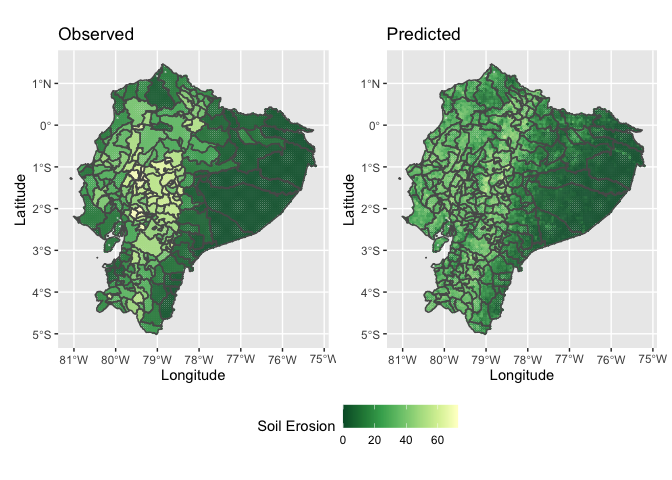
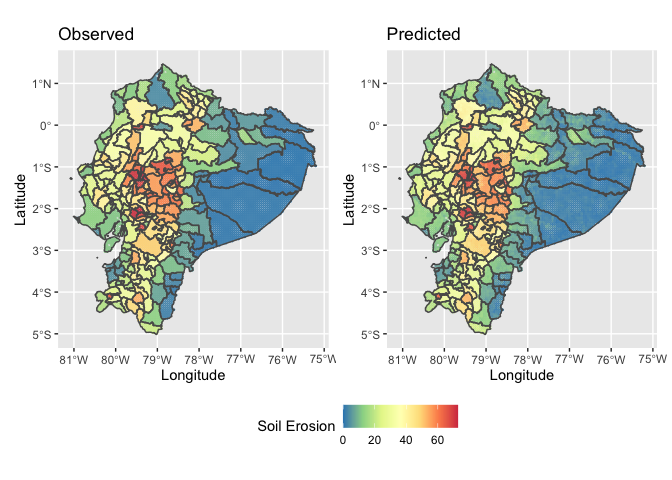
add rendered doc to mach modified rmd

Changed region(s): [[0.0938, 0.125, 0.4688, 0.6875], [0.5938, 0.125, 0.9688, 0.6875], [0.5, 0.8438, 0.6875, 0.9062]]

diff --git a/polygon/shp_label_predictions.md b/polygon/shp_label_predictions.md
@@ -49,7 +49,7 @@ label_shp <- st_read(paste0(input_dir, label_shp_name)) # read in shapefile usin
 ```
 
     ## Reading layer `ecu_ica_landdegradation_geonode_jul2018' from data source 
-    ##   `/Users/benshen/CEGA/api_testing/ecu_soil_erosion_data/ecu_ica_landdegradation_geonode_jul2018.shp' 
+    ##   `/Users/benshen/CEGA/api_testing/polygon/ecu_soil_erosion_data/ecu_ica_landdegradation_geonode_jul2018.shp' 
     ##   using driver `ESRI Shapefile'
     ## Simple feature collection with 224 features and 9 fields
     ## Geometry type: MULTIPOLYGON
@@ -130,7 +130,9 @@ grid cell centroid.
 ``` r
 grid_sf <- st_as_sf(grid) # transform grid from sfc object to sf object for merging
 
-label_df<- st_join(grid_sf, label_shp_reprojected[,"ErosPr"], join = st_within, left = FALSE) # spatial join grid over shapefile, "ErosPr" is the desired attribute column of the example dataset
+#label_df<- st_join(grid_sf, label_shp_reprojected[,"ErosPr"], join = st_within, left = FALSE) # spatial join grid over shapefile, "ErosPr" is the desired attribute column of the example dataset
+
+label_df <- st_join(grid_sf, label_shp_reprojected[,c("ErosPr","DPA_CANTON")], join = st_within, left = FALSE) # spatial join grid over shapefile, "ErosPr" is the desired attribute column of the example dataset
 ```
 
 Plot check
@@ -138,6 +140,10 @@ Plot check
 <img src="shp_label_predictions_files/figure-gfm/unnamed-chunk-7-1.png" width="100%" height="100%" />
 
 ## 4. Output the grid to CSV to obtain features from File Query
+
+    ## Writing layer `ecu_erosion_label' to data source 
+    ##   `./ecu_erosion_label.csv' using driver `CSV'
+    ## Writing 8074 features with 4 fields and geometry type Point.
 
 # Query MOSAIKS Features from API
 
@@ -192,12 +198,12 @@ label <- label[with(label, order(lat, lon)),] #sort
 head(label, 5)
 ```
 
-    ##    ErosPr     lon    lat
-    ## 1 21.4603 -79.105 -4.975
-    ## 2 21.4603 -79.055 -4.975
-    ## 3 21.4603 -79.005 -4.975
-    ## 4 21.4603 -79.255 -4.925
-    ## 5 21.4603 -79.205 -4.925
+    ##    ErosPr DPA_CANTON     lon    lat
+    ## 1 21.4603       1902 -79.105 -4.975
+    ## 2 21.4603       1902 -79.055 -4.975
+    ## 3 21.4603       1902 -79.005 -4.975
+    ## 4 21.4603       1902 -79.255 -4.925
+    ## 5 21.4603       1902 -79.205 -4.925
 
 Merge features spatially with label.
 
@@ -227,21 +233,21 @@ print(paste0(num_na, " rows with NAs dropped. ", nrow(df), " observations in fin
     ## [1] "28 rows with NAs dropped. 8046 observations in final dataframe."
 
 ``` r
-head(df, c(5, 10)) # limited to 10 columns for sake of space. Actual dataframe contains 4003 columns
+head(df, c(5, 10)) # limited to 10 columns for sake of space
 ```
 
-    ##    ErosPr     lon    lat          X        X.1        X.2          X.3
-    ## 1 21.4603 -79.105 -4.975 0.16587991 0.42999491 0.13084383 0.0547036342
-    ## 2 21.4603 -79.055 -4.975 0.13666266 0.25447765 0.13536981 0.0285860952
-    ## 3 21.4603 -79.005 -4.975 0.10358148 0.17465281 0.11631227 0.0156488381
-    ## 4 21.4603 -79.255 -4.925 0.04870118 0.08788871 0.05642445 0.0027059496
-    ## 5 21.4603 -79.205 -4.925 0.05220752 0.08975811 0.04581843 0.0007529163
-    ##          X.4       X.5        X.6
-    ## 1 0.24663417 0.5299929 0.20095651
-    ## 2 0.15804757 0.3605235 0.18017522
-    ## 3 0.10863219 0.2195943 0.12967739
-    ## 4 0.04756720 0.1608833 0.08749487
-    ## 5 0.05369745 0.1631556 0.06835839
+    ##    ErosPr DPA_CANTON     lon    lat          X        X.1        X.2
+    ## 1 21.4603       1902 -79.105 -4.975 0.16587991 0.42999491 0.13084383
+    ## 2 21.4603       1902 -79.055 -4.975 0.13666266 0.25447765 0.13536981
+    ## 3 21.4603       1902 -79.005 -4.975 0.10358148 0.17465281 0.11631227
+    ## 4 21.4603       1902 -79.255 -4.925 0.04870118 0.08788871 0.05642445
+    ## 5 21.4603       1902 -79.205 -4.925 0.05220752 0.08975811 0.04581843
+    ##            X.3        X.4       X.5
+    ## 1 0.0547036342 0.24663417 0.5299929
+    ## 2 0.0285860952 0.15804757 0.3605235
+    ## 3 0.0156488381 0.10863219 0.2195943
+    ## 4 0.0027059496 0.04756720 0.1608833
+    ## 5 0.0007529163 0.05369745 0.1631556
 
 ## 6. Run a ridge regression of label on MOSAIKS features
 
@@ -254,6 +260,10 @@ then evaluate predictions in the test set. This separation of train and
 test set is important to address issues related to overfitting.
 
 ``` r
+#create dummy variables for fixed effects
+fe <- as.data.frame(model.matrix(~ df$DPA_CANTON - 1))
+df <- cbind(df,fe)
+
 ### Split data into training and test sets
 set.seed(100) 
 
@@ -262,20 +272,20 @@ index <- sample(1:nrow(df), 0.8*nrow(df))
 train <- df[index,] # Create the training data 
 test <- df[-index,] # Create the test data
 
-label_value <- "ErosPr" # set label attribute name in the dataframe, modify according to dataset
+#save test set lat/lons for plotting later
+plotting_coords <- subset(test, select = c(lon,lat))
+plotting_coords_train <- subset(train, select = c(lon,lat))
 
 # Create X matricies and y vectors from the train and test sets
 # Note that the glmnet function does not work with dataframes. Instead, they need to be converted to  numeric matrices  
 
-X_train <- as.matrix(subset(train, select = -c(get(label_value))))
+label_value <- "ErosPr" # set label attribute name in the dataframe, modify according to dataset
+
+X_train <- as.matrix(subset(train, select = -c(get(label_value),lat,lon,DPA_CANTON)))
 y_train <- train[,label_value]
 
-X_test <- as.matrix(subset(test, select = -c(get(label_value))))
+X_test <- as.matrix(subset(test, select = -c(get(label_value),lat,lon,DPA_CANTON)))
 y_test <- test[,label_value]
-
-#save test set lat/lons for plotting later
-plotting_coords <- subset(test, select = c(lon,lat))
-plotting_coords_train <- subset(train, select = c(lon,lat))
 ```
 
 Within our training dataset, we choose the penalization parameter
@@ -293,7 +303,7 @@ optimal_lambda <- cv_ridge$lambda.min
 print(paste0("optimal lambda: ", optimal_lambda))
 ```
 
-    ## [1] "optimal lambda: 1.11246413414451"
+    ## [1] "optimal lambda: 1.0616120957888"
 
 ## 7. Make predictions and evaluate performance
 
@@ -316,7 +326,7 @@ r2 <- (1 - SSE / SST)
 print(paste0('r2: ', r2))
 ```
 
-    ## [1] "r2: 0.566133081589242"
+    ## [1] "r2: 0.992821447155556"
 
 We can also make a scatter plot of labeled data against predictions.
 
@@ -341,26 +351,41 @@ Finally, we can compare the spatial distribution of label
 (i.e. observed) values with predicted values.
 
 <img src="shp_label_predictions_files/figure-gfm/unnamed-chunk-17-1.png" width="100%" height="100%" />
-Example application: One could predict soil erosion risk at higher
-spatial resolution. For example, areas along the Napo River in east
+Example application:  
+When predicting at a higher spatial resolution, you could recover local
+topographic effects. For example, areas along the Napo River in east
 Ecuador face a higher risk of soil erosion.
 
 ``` r
 #load water areas in ecuador 
 water_shp <- st_read(paste0(input_dir, 'ECU_wat/ECU_water_areas_dcw.shp')) # read in shapefile 
+```
+
+    ## Reading layer `ECU_water_areas_dcw' from data source 
+    ##   `/Users/benshen/CEGA/api_testing/polygon/ECU_wat/ECU_water_areas_dcw.shp' 
+    ##   using driver `ESRI Shapefile'
+    ## Simple feature collection with 86 features and 5 fields
+    ## Geometry type: MULTIPOLYGON
+    ## Dimension:     XY
+    ## Bounding box:  xmin: -91.5569 ymin: -4.649089 xmax: -75.19166 ymax: 1.310197
+    ## Geodetic CRS:  WGS 84
+
+``` r
 water_shp_reprojected <- st_transform(water_shp, crs = target_crs) # reproject water layer
 
 #plot  
 ggplot() +
 geom_point(data = map_plot_train, 
   aes(x=lon, y=lat, color= predicted), 
-  size = 3, alpha = 0.9) + 
-scale_color_distiller(palette = "YlGn", limits = c(0, scale_max)) +
+  size = 3.6, alpha = 0.99) + 
+scale_color_distiller(palette = "Spectral", limits = c(0,30)) +
 labs(x = "Longitude", y = "Latitude", title = "Napo River Basin", color = "Soil Erosion") +
 geom_sf(data =label_shp_reprojected, size = 0.3, alpha = 0.01, color = "grey39") +
-geom_sf(data =water_shp_reprojected, size = 0.1, alpha = 0.1, color = "blue1") + #water
+geom_sf(data =water_shp_reprojected, size = 0.1, alpha = 0.0001, color = "white") + #water
   coord_sf(
-  xlim = c(-78, -75),
+  xlim = c(-77.5, -75),
   ylim = c(-1.2, 0),
 )
 ```
+
+![](shp_label_predictions_files/figure-gfm/unnamed-chunk-18-1.png)<!-- -->
